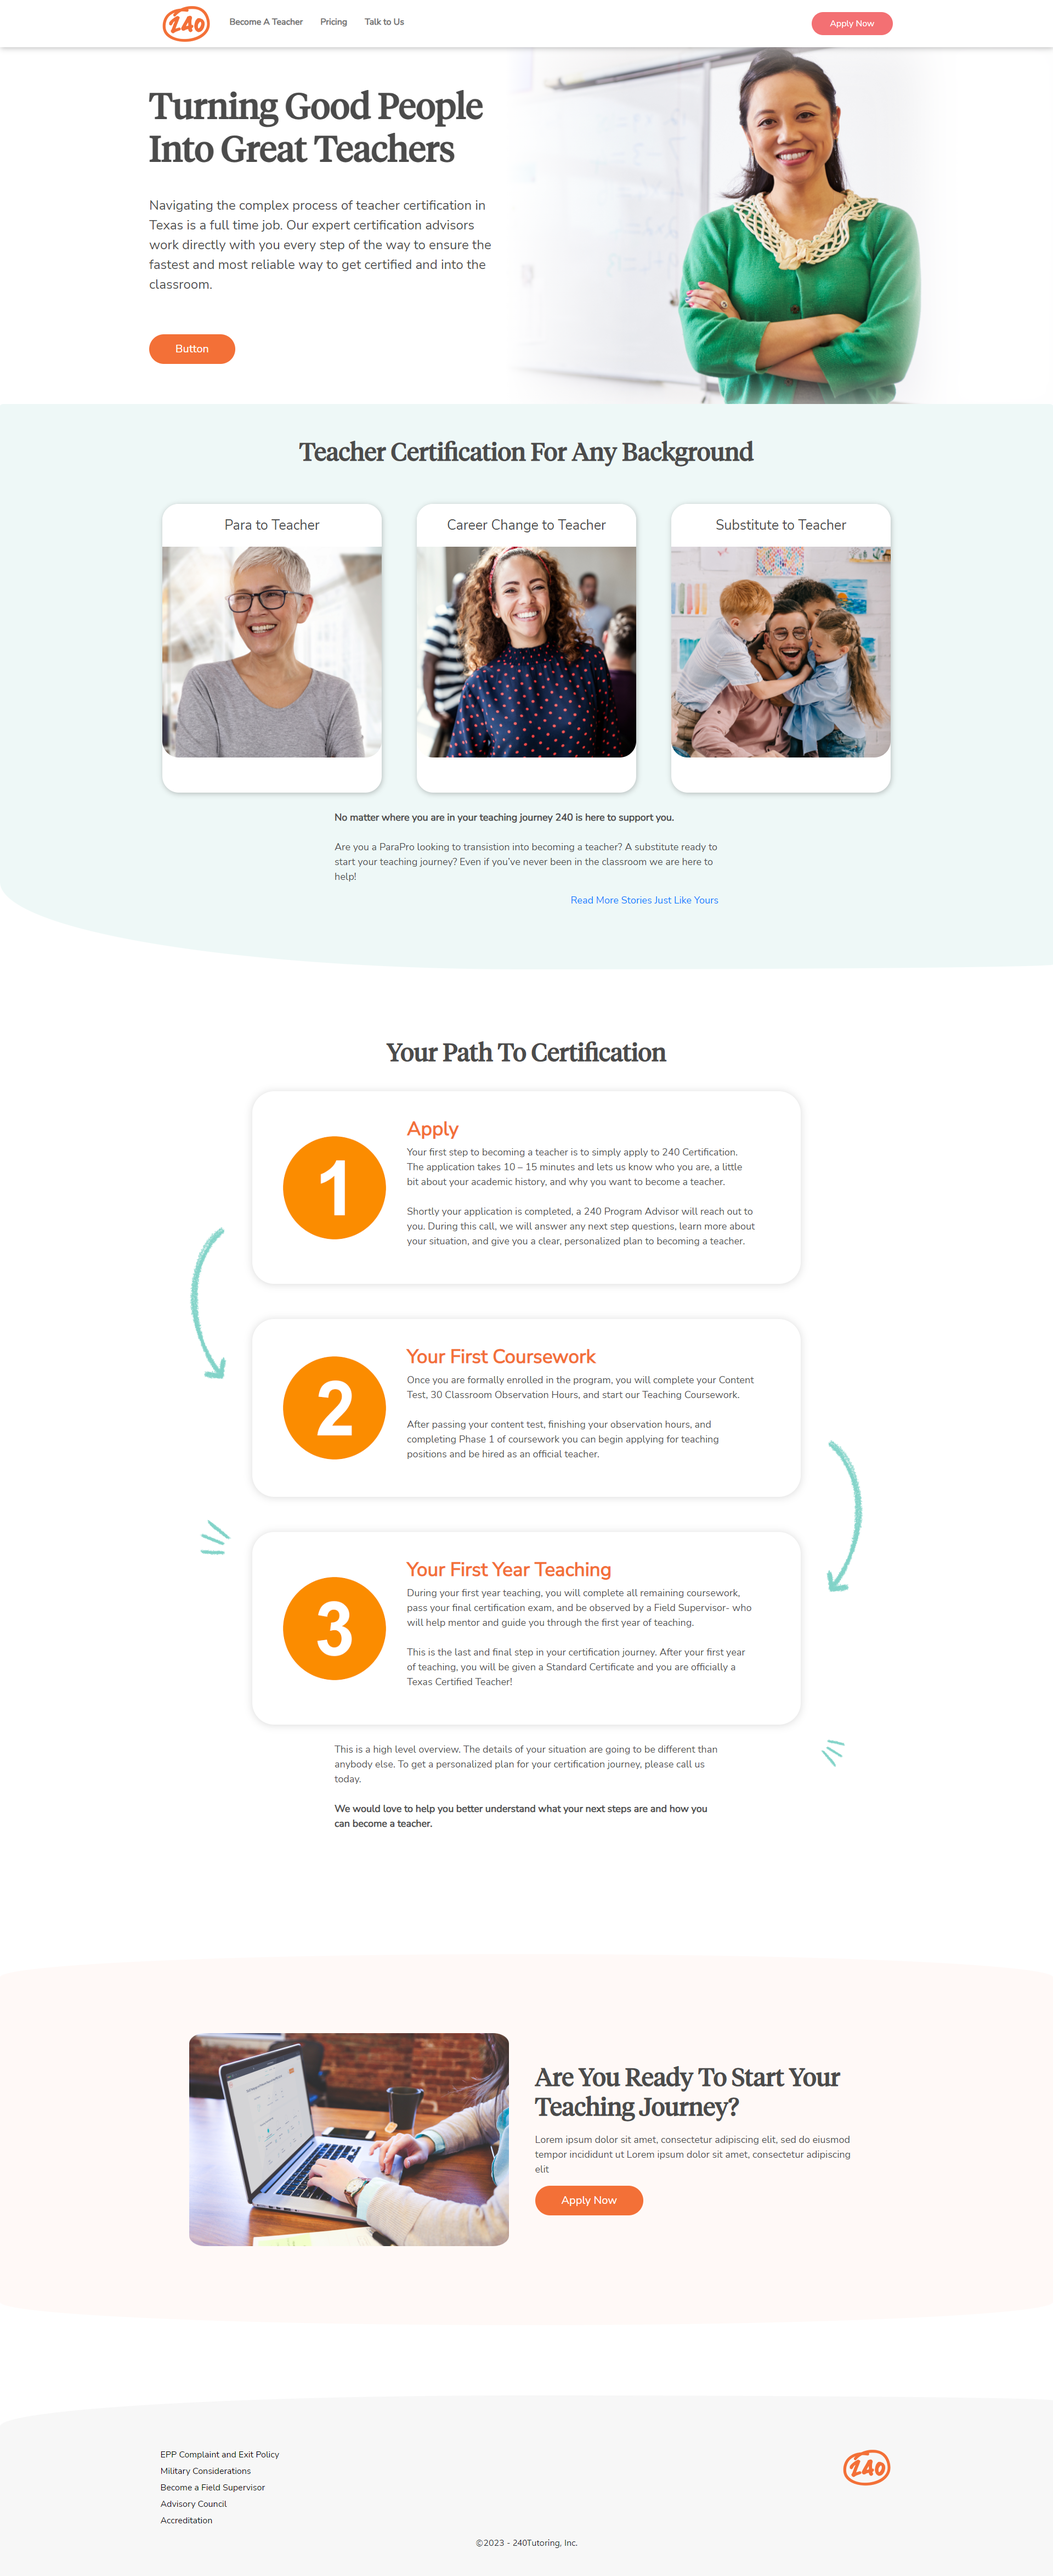
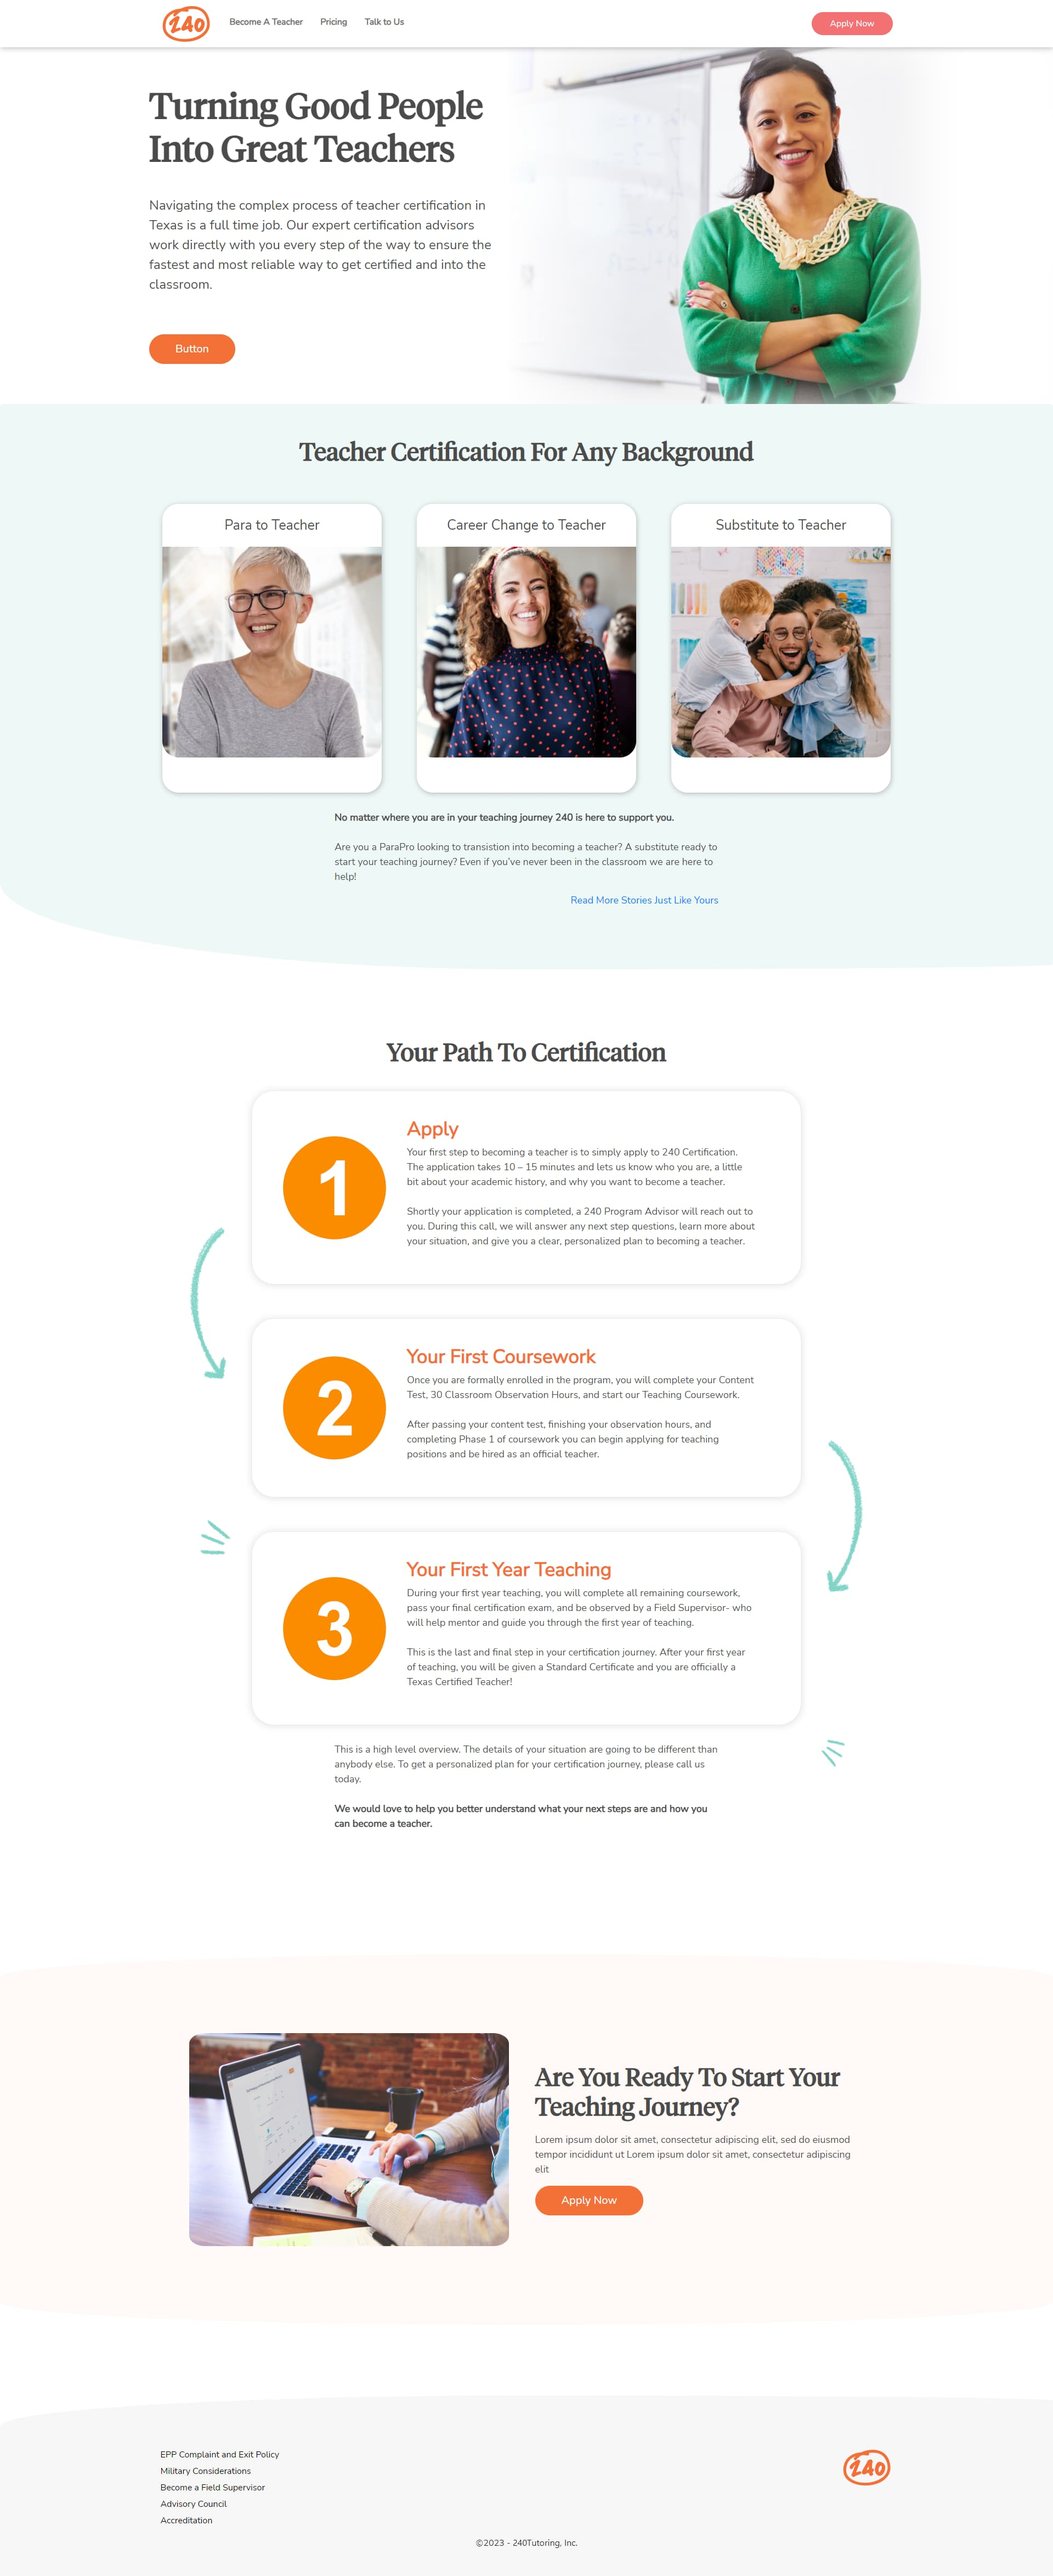
site is complete for now

diff --git a/src/app/globals.css b/src/app/globals.css
@@ -23,8 +23,8 @@ body {
   overflow-x: hidden;
 }
 section.top-hero p {
-  font-weight: 500;
-  text-shadow: 2px 1px 10px rgba(0, 0, 0, 0.25);
+  font-weight: 600;
+  /* text-shadow: 2px 1px 3px rgba(0, 0, 0, 0.25); */
  }
 
 /*Navigation*/
@@ -32,6 +32,13 @@ a.navEnlace {
   font-weight: 500;
   font-size: 17px;
   color: #00283c;
+}
+img.logo{
+  width: 100%;
+  height: auto;
+}
+span.navbar-toggler-icon {
+  filter: contrast(1.5);
 }
 
 /*Footer*/
@@ -74,14 +81,14 @@ nav.top-navigation {
 /*home page*/
 section.top-hero {
   background-image: linear-gradient(
-      rgba(250, 250, 250, 0.5),
-      rgba(250, 250, 250, 0.25)
+      rgba(250, 250, 250, 1.5),
+      rgba(250, 250, 250, 0.1)
     ),
     url("../imgs/dragonfly-ave-9kym63uN-QE-unsplash.jpg");
   display: flex;
   justify-content: center;
   align-items: center;
-  height: 35rem;
+  height: 40rem;
   background-size: cover;
   background-repeat: no-repeat;
   background-position: bottom;
@@ -235,6 +242,28 @@ img.mini-gallery-img {
   object-position: top;
   margin-top: 2rem;
 }
+img.modalImage {
+  width: 100%;
+  height: auto;
+}
+.modalContent {
+  position: absolute;
+  inset: 90px 50px;
+  border: 1px solid rgb(204, 204, 204);
+  background: rgb(255, 255, 255);
+  overflow: auto;
+  border-radius: 4px;
+  outline: none;
+  padding: 0px;
+}
+.modalOverlay {
+  position: fixed;
+  inset: 0px;
+  background-color: rgba(255, 255, 255, 0.75);
+}
+.modalButton {
+ margin: 1rem 1.5rem; 
+}
 
 /* featured project 1 page - accrp */
 section.feat-proj1-header {
@@ -337,8 +366,8 @@ footer.the-footer {
     background-size: auto;
   }
   section.top-hero p {
-   font-weight: 500;
-   text-shadow: 1px 1px 10px rgba(0, 0, 0, 0.25);
+   /* font-weight: 500; */
+   /* text-shadow: 1px 1px 10px rgba(0, 0, 0, 0.25); */
    font-size: 16px;
   }
   p.teaser-text, p.blog-excerpt, p.project-overview, p.project-process, p.project-outcome, section.about-text-container p, section.about-tech-resume p, section.projects-header p, p.form-paragraph   {
@@ -352,5 +381,27 @@ footer.the-footer {
     padding: 1rem;
     margin: 1rem;
   }
+  section.feat-proj1-header, section.feat-proj2-header, section.feat-proj3-header{
+    background-size: auto;
+  }
 
+  .modalContent {
+    inset: 80px 9px 8px;   
+  }
+
+  .modalButton {
+   margin: 0.5rem; 
+  }
+  .btn-first.modalButton {
+    padding: 0.25rem;
+    font-size: .75rem; 
+  }
+
+}
+
+@media(max-width: 540px) {
+  img.logo{
+    width: 75%;
+    height: auto;
+  }
 }

diff --git a/src/app/projects/aiuf/page.js b/src/app/projects/aiuf/page.js
@@ -1,10 +1,26 @@
+'use client';
+
 import Navigation from "../../../components/Navigation";
+import React, { useState } from 'react';
+import Modal from 'react-modal';
 import Footer from "../../../components/Footer";
 import Link from "next/link";
 import Image from "next/image";
 import projectAIUFImgs from "../../../js/projectAIUF.js";
 
 export default function AIUFProject() {
+  const [modalIsOpen, setModalIsOpen] = useState(false);
+  const [selectedImage, setSelectedImage] = useState('');
+
+  const openModal = (imgSrc) => {
+    setSelectedImage(imgSrc);
+    setModalIsOpen(true);
+  };
+
+  const closeModal = () => {
+    setModalIsOpen(false);
+  };
+
   return (
     <main>
       <Navigation />
@@ -64,9 +80,10 @@ export default function AIUFProject() {
             </p>
             <div className="row mini-gallery-row">
               {projectAIUFImgs.map((img) => {
-               return (
-                  <div key={img} className={"col-lg-4"}>
-                      <a href={img.imgSrc} className="card-link" target="_blank">
+                return (
+                  <div key={img} className={"col-lg-6"}>
+                      <a className="card-link" onClick={() => openModal(img.imgSrc)}
+            style={{ cursor: 'pointer' }}>
                         <div className="card mb-4">
                           <Image
                             src={img.imgSrc}
@@ -85,6 +102,22 @@ export default function AIUFProject() {
                 </div>
                );
               })}
+              <Modal
+                isOpen={modalIsOpen}
+                onRequestClose={closeModal}
+                contentLabel="Image Modal"
+                style={{ cursor: 'pointer'}}
+                className="modalContent"
+                overlayClassName="modalOverlay"
+              >
+                <button className="btn-first modalButton" onClick={closeModal}>Close Modal</button>
+                <Image 
+                src={selectedImage} alt="Selected Image"  
+                width={1920}
+                height={4500} 
+                className="modalImage"
+                />
+              </Modal>
             </div>
             <p className="lead project-process">
               After designing, having the design reviewed and then eventually

diff --git a/src/app/projects/accrp/page.js b/src/app/projects/accrp/page.js
@@ -1,10 +1,26 @@
+'use client';
+
 import Navigation from "../../../components/Navigation";
+import React, { useState } from 'react';
+import Modal from 'react-modal';
 import Footer from "../../../components/Footer";
 import Link from "next/link";
 import Image from "next/image";
 import projectACCRPImgs from "../../../js/projectACCRP.js";
 
 export default function ACCRP() {
+  const [modalIsOpen, setModalIsOpen] = useState(false);
+  const [selectedImage, setSelectedImage] = useState('');
+
+  const openModal = (imgSrc) => {
+    setSelectedImage(imgSrc);
+    setModalIsOpen(true);
+  };
+
+  const closeModal = () => {
+    setModalIsOpen(false);
+  };
+
   return (
     <main>
       <Navigation />
@@ -69,8 +85,9 @@ export default function ACCRP() {
             <div className="row mini-gallery-row">
               {projectACCRPImgs.map((img) => {
                return (
-                  <div key={img} className={"col-lg-4"}>
-                      <a href={img.imgSrc} className="card-link" target="_blank">
+                  <div key={img} className={"col-lg-6"}>
+                      <a className="card-link" onClick={() => openModal(img.imgSrc)}
+            style={{ cursor: 'pointer' }}>
                         <div className="card mb-4">
                           <Image
                             src={img.imgSrc}
@@ -89,6 +106,22 @@ export default function ACCRP() {
                 </div>
                );
               })}
+               <Modal
+                isOpen={modalIsOpen}
+                onRequestClose={closeModal}
+                contentLabel="Image Modal"
+                style={{ cursor: 'pointer'}}
+                className="modalContent"
+                overlayClassName="modalOverlay"
+              >
+                <button className="btn-first modalButton" onClick={closeModal}>Close Modal</button>
+                <Image 
+                src={selectedImage} alt="Selected Image"  
+                width={1920}
+                height={4500} 
+                className="modalImage"
+                />
+              </Modal>
             </div>
             <p className="lead project-process">
               For the mockups and style guide, I used Adobe XD. Since the

diff --git a/src/app/projects/240certification/page.js b/src/app/projects/240certification/page.js
@@ -1,5 +1,8 @@
-// import * as React from "react";
+'use client';
+
 import Navigation from "../../../components/Navigation";
+import React, { useState } from 'react';
+import Modal from 'react-modal';
 import Footer from "../../../components/Footer";
 import Link from "next/link";
 import Image from "next/image";
@@ -7,6 +10,19 @@ import project240Imgs from "../../../js/project240.js";
 
 
 export default function Cert240Project() {
+  const [modalIsOpen, setModalIsOpen] = useState(false);
+  const [selectedImage, setSelectedImage] = useState('');
+
+  const openModal = (imgSrc) => {
+    setSelectedImage(imgSrc);
+    setModalIsOpen(true);
+  };
+
+  const closeModal = () => {
+    setModalIsOpen(false);
+  };
+
+
   return (
     <main>
       <Navigation />
@@ -77,7 +93,8 @@ export default function Cert240Project() {
               {project240Imgs.map((img) => {
                return (
                   <div key={img} className={"col-lg-6"}>
-                      <a href={img.imgSrc} className="card-link" target="_blank">
+                      <a className="card-link" onClick={() => openModal(img.imgSrc)}
+            style={{ cursor: 'pointer' }}>
                         <div className="card mb-4">
                           <Image
                             src={img.imgSrc}
@@ -96,6 +113,22 @@ export default function Cert240Project() {
                 </div>
                );
               })}
+              <Modal
+                isOpen={modalIsOpen}
+                onRequestClose={closeModal}
+                contentLabel="Image Modal"
+                style={{ cursor: 'pointer'}}
+                className="modalContent"
+                overlayClassName="modalOverlay"
+              >
+                <button className="btn-first modalButton" onClick={closeModal}>Close Modal</button>
+                <Image 
+                src={selectedImage} alt="Selected Image"  
+                width={1920}
+                height={4500} 
+                className="modalImage"
+                />
+              </Modal>
             </div>
             <p className="lead project-process">
               A large part of the project was the custom blocks. WordPress’s

diff --git a/src/components/Navigation.jsx b/src/components/Navigation.jsx
@@ -2,6 +2,8 @@
 
 import Link from "next/link";
 import { useState, useEffect } from "react";
+import Image from "next/image";
+import logo from "../imgs/My-logo-proto.png";
 
 export default function Navigation() {
     const [windowHeight, setWindowHeight] = useState("");
@@ -23,7 +25,7 @@ export default function Navigation() {
       let bgColorChange = windowHeight / 700;
   
       if (bgColorChange < 1) {
-        let paddingChange= 30 - bgColorChange * 20;
+        let paddingChange = 30 - bgColorChange * 20;
         let boxShadowChange = bgColorChange * 0.1;
         setchangeBG(bgColorChange);
         setPadding(paddingChange);
@@ -40,7 +42,7 @@ export default function Navigation() {
       }}
     >
         <div className="container-fluid hold-nav-links" id="holdNavLinks">
-            <Link className="navbar-brand" href="/">Navbar</Link>
+            <Link className="navbar-brand" href="/"><Image className="logo" src={logo} width={128} height={43}/></Link>
             <button className="navbar-toggler" type="button" data-bs-toggle="collapse" data-bs-target="#navbarNav" aria-controls="navbarNav" aria-expanded="false" aria-label="Toggle navigation">
             <span className="navbar-toggler-icon"></span>
             </button>

diff --git a/src/app/page.tsx b/src/app/page.tsx
@@ -20,7 +20,7 @@ export default function Home() {
               education, research, history, and writing.
             </p>
             <p className="lead">
-              Check out my latest blog post, or see the rest of my site below!
+              Check out the rest of my site below!
             </p>
             <div className="hold-header-cta">
               <a href="#about-teaser" className="btn-first px-4 bloglink">

diff --git a/src/app/layout.tsx b/src/app/layout.tsx
@@ -10,7 +10,7 @@ const inter = Inter({ subsets: ['latin'] })
 
 export const metadata: Metadata = {
   title: "Toni-Lee's Portfolio",
-  description: "A website that shows Toni-Lee's work.",
+  description: "A website that shows Toni-Lee's development work.",
 }
 
 export default function RootLayout({
